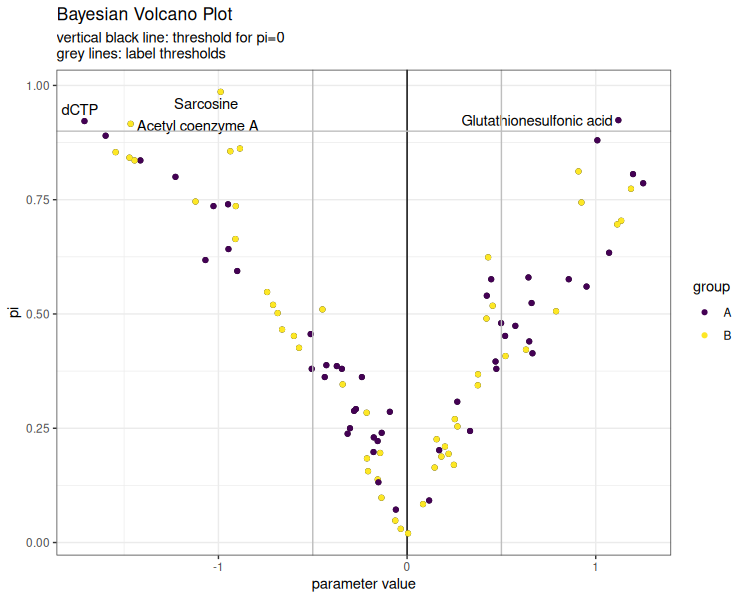
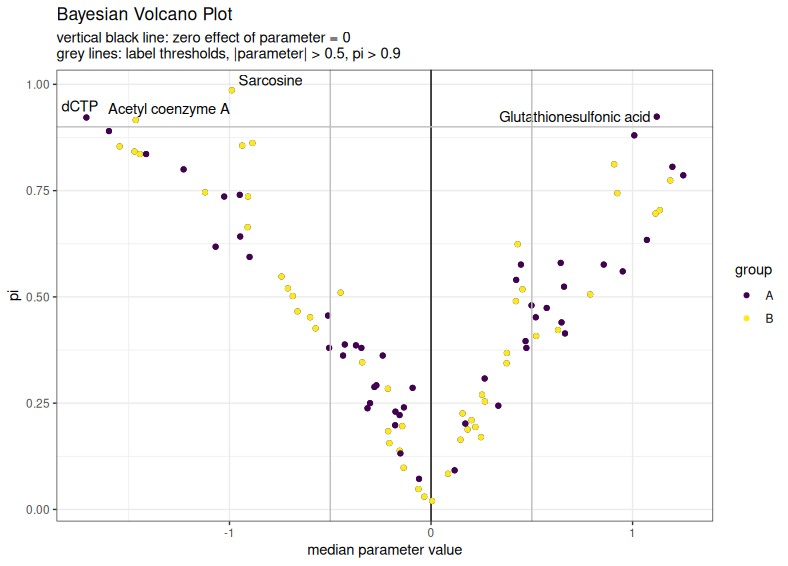
polish documentation

diff --git a/README.md b/README.md
@@ -16,22 +16,32 @@ to interpret at a glance.
 One way to quickly identify important biological changes based on frequentist analysis 
 are volcano plots (using fold-changes and p-values).
 
-Bayesian volcano plots bring together the uncertainty aware power of Bayesian 
-models and the familiar visualization of volcano plots by:
+Bayesian volcano plots bring together the explicit treatment of uncertainty in
+Bayesian models and the familiar visualization of volcano plots by:
 
-   1) Showing posterior medians on the x-axis.
-   2) Calculation and using ![equation](https://latex.codecogs.com/svg.image?%5Cpi)-values on the y-axis as a summary 
-      of posterior parameter values lying beyond a threshold.
-      With *i* being one entity that was modeled and *param* the estimated parameter
-![equation](https://latex.codecogs.com/svg.image?%5Cpi_%7Bi%7D=2*max%5Cleft(%5Cint_%7Bparam_%7Bi%7D=-%5Cinfty%7D%5E%7B0%7Dp(param_%7Bi%7D)%5C,d%20param_%7Bi%7D,%5Cint_%7Bparam_%7Bi%7D=0%7D%5E%7B%5Cinfty%7Dp(param_%7Bi%7D)%5C,d%20param_%7Bi%7D%5Cright)-1%20)
+   1) Calculation and using ![equation](https://latex.codecogs.com/svg.image?%5Cpi)-values
+      on the y-axis as a summary of posterior parameter values lying beyond a threshold.
+      With *i* being one entity that was modeled, *param* the estimated parameter and *t*
+      the central parameter value corresponding to no effect (default t=0).
+      
+      ![equation](https://latex.codecogs.com/svg.image?%5Cpi_%7Bi%7D=2*max%5Cleft(%5Cint_%7Bparam_%7Bi%7D=-%5Cinfty%7D%5E%7Bt%7Dp(param_%7Bi%7D)%5C,dparam_%7Bi%7D,%5Cint_%7Bparam_%7Bi%7D=t%7D%5E%7B%5Cinfty%7Dp(param_%7Bi%7D)%5C,dparam_%7Bi%7D%5Cright)-1)
+
+
+   2) Preserving the familiar, intuitive volcano structure.
+
+      The figure below shows the distribution of the posterior samples on the right
+      and their translation into a Bayesian volcano plot on the righth.
+
+      ![](man/figures/README-explain_volcano.png)
+
+
 
    3) Optional displaying credible intervals (CrIs) to visualize uncertainty.
-   4) Preserving the familiar, intuitive volcano structure.
    
-We are not the first to think about the concept of Bayesian volcano plots [Sousa et al. 2020](https://doi.org/10.1016/j.aca.2019.11.006) introduced them as a single
-use case (their b-values correspond to our pi-values)
-but to our knowledge we are the first to provide an R-package
+We are not the first to think about the concept of Bayesian volcano plots: [Sousa et al. 2020](https://doi.org/10.1016/j.aca.2019.11.006) introduced them as a single
+use case (pi-value= 1 - b-value) but to our knowledge we are the first to provide an R-package
 for easy calculation of pi-values and visualization. 
+
 
 ## Installation
 
@@ -62,9 +72,10 @@ result <- prepare_volcano_df(
    annotation_df = annotation_df
  )
 plot_volcano(result,
-             color="group",
-             label="label",
-             label.pi.threshold = 0.9,
+             CrI = FALSE, # optional display of credible intervals
+             color="group", # optional color coding
+             label="label", # optional text labels
+             label.pi.threshold = 0.9, # optional thresholds for labels
              label.parameter.threshold = 0.5)
 ```
 
